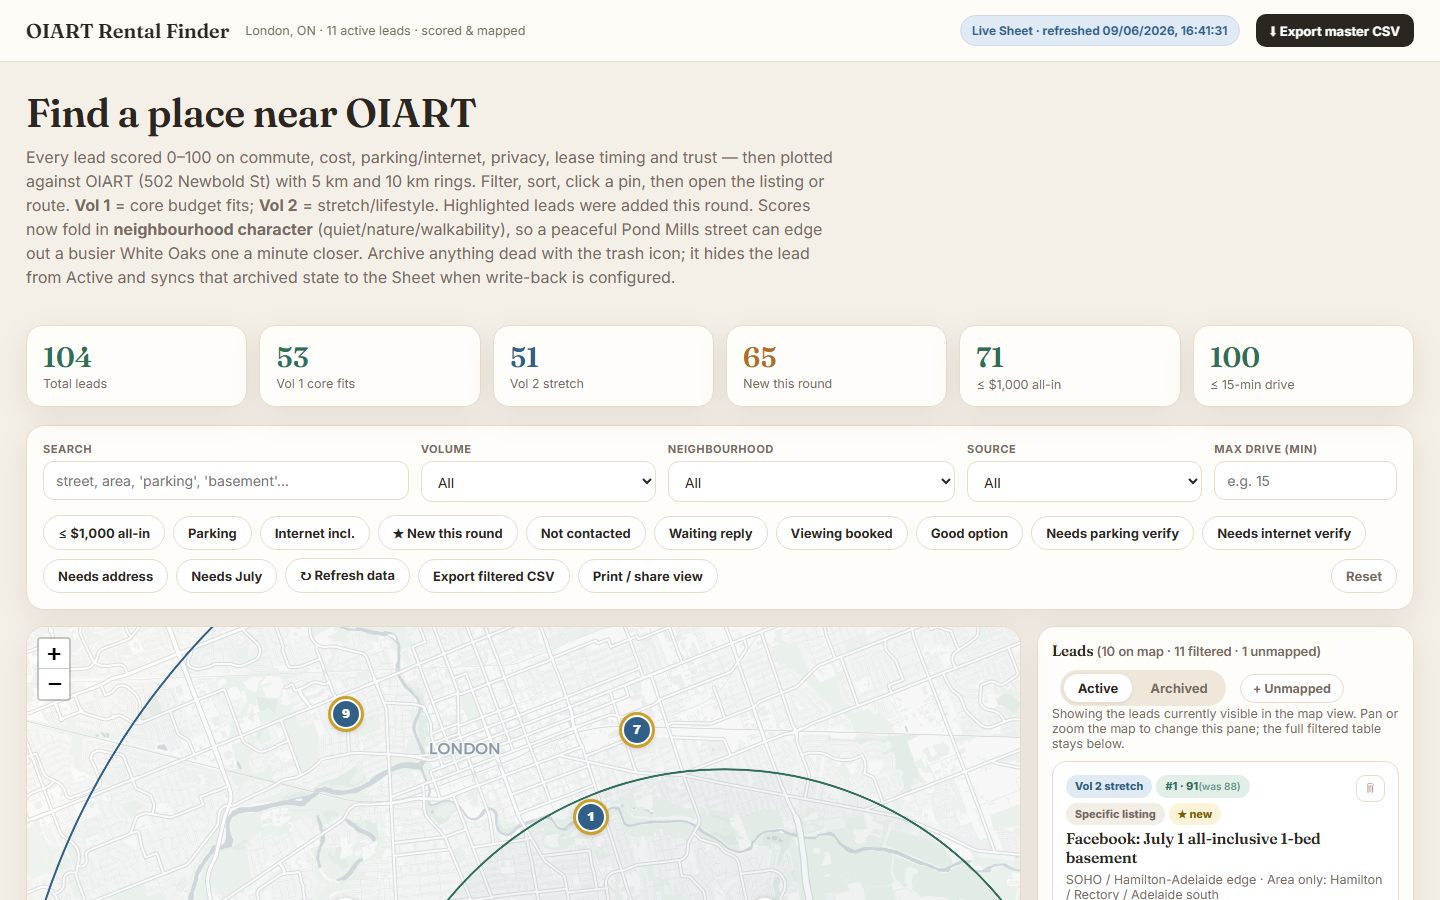
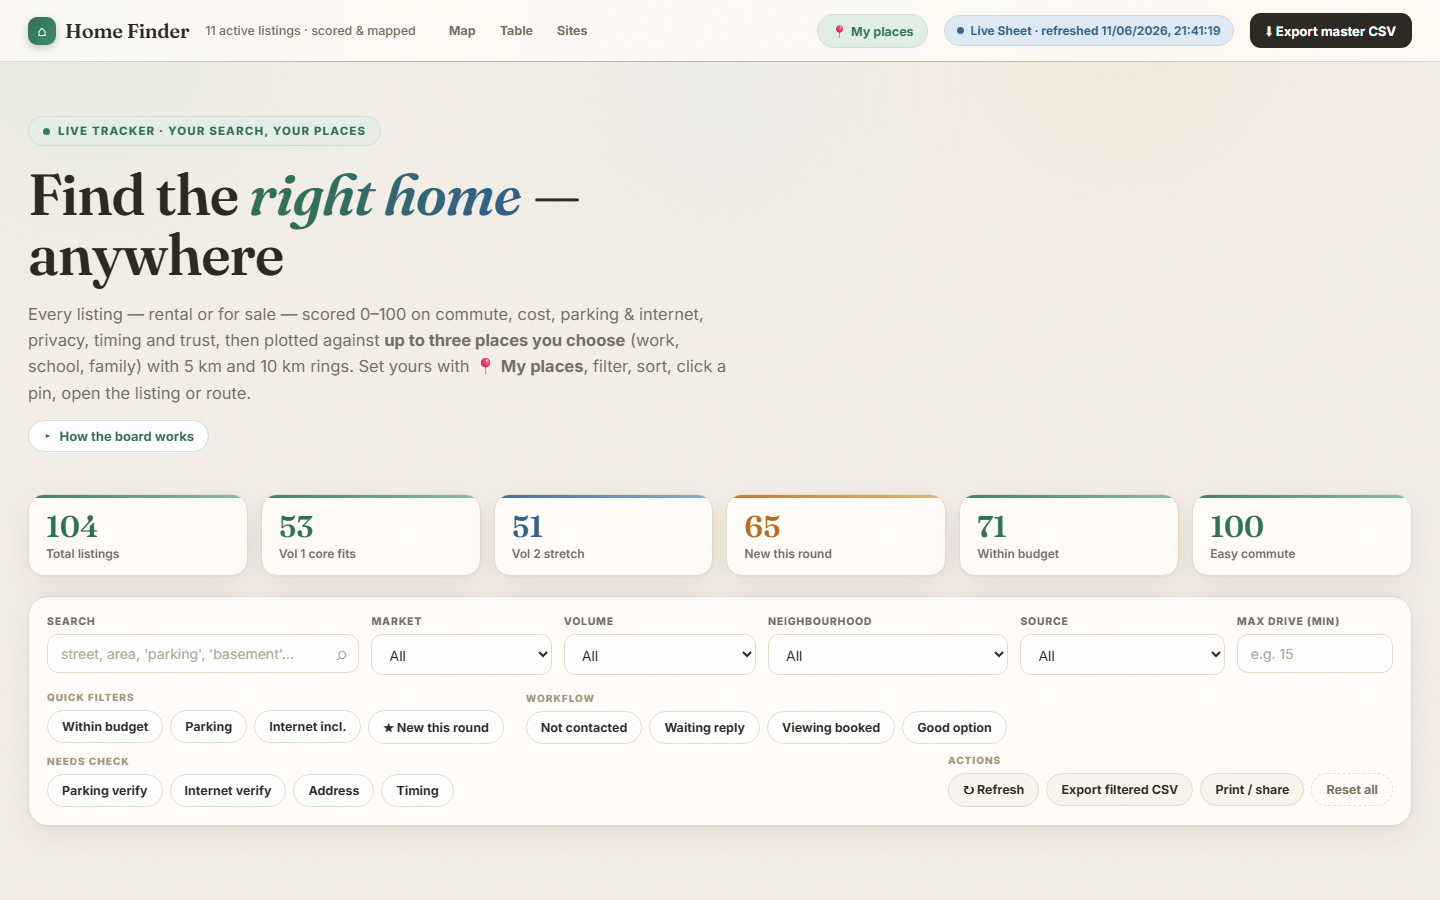
Update rental finder card to generalized Home Finder
New title, copy reflecting rentals + for-sale listings, three anchor
places, and adaptive scoring; fresh live-site screenshot.

diff --git a/index.html b/index.html
@@ -69,7 +69,7 @@
         <div class="container stats-grid">
           <div class="stat reveal"><span class="stat-num" data-value="3">3</span><span class="stat-label">Live web products</span></div>
           <div class="stat reveal"><span class="stat-num" data-prefix="$" data-value="1.2" data-decimals="1" data-suffix="B">$1.2B</span><span class="stat-label">Development pro forma modeled</span></div>
-          <div class="stat reveal"><span class="stat-num" data-prefix="$" data-value="0" data-suffix="/mo">$0/mo</span><span class="stat-label">Infra cost of the Rental Finder</span></div>
+          <div class="stat reveal"><span class="stat-num" data-prefix="$" data-value="0" data-suffix="/mo">$0/mo</span><span class="stat-label">Infra cost of Home Finder</span></div>
           <div class="stat reveal"><span class="stat-num" data-value="1">1</span><span class="stat-label">Emilio Dio Award for Studio Excellence</span></div>
         </div>
       </div>
@@ -132,20 +132,20 @@
           </div>
         </article>
 
-        <!-- OIART Rental Finder -->
+        <!-- Home Finder -->
         <article class="project reveal">
-          <a class="project-media" href="https://azr-erzr.github.io/oiart-rental-finder/" target="_blank" rel="noopener" aria-label="Visit the OIART Rental Finder">
-            <img src="assets/img/rentalfinder-home.png" alt="OIART Rental Finder — scored listing dashboard with filters, stats, and a map" loading="lazy">
+          <a class="project-media" href="https://azr-erzr.github.io/oiart-rental-finder/" target="_blank" rel="noopener" aria-label="Visit Home Finder">
+            <img src="assets/img/rentalfinder-home.png" alt="Home Finder — 'Find the right home, anywhere' dashboard with scored listings, stats, and filters" loading="lazy">
             <span class="media-badge">azr-erzr.github.io</span>
           </a>
           <div class="project-body">
             <div class="project-tags">
               <span class="tag">Zero-infrastructure · Open source</span>
             </div>
-            <h3>OIART Rental Finder</h3>
+            <h3>Home Finder</h3>
             <p class="project-tagline">A full search-and-ranking app that costs $0 to run.</p>
-            <p>A live rental-hunting tool where a Google Sheet is the database, GitHub Pages is the host, and a small Apps Script endpoint handles write-back. Every listing is scored 0–100 by an honesty-first engine: graduated points for what a listing actually states, unknowns excluded from the math instead of fake-penalized, and missing must-haves capping the score so a mystery listing can never look like a 95.</p>
-            <p><strong>Why it's interesting:</strong> it's maximum product from minimum infrastructure — map with drive-time anchors, team workflow tracking, scam flags, CSV fallback — with no server and no hosting bill. I also wrote a public step-by-step guide so anyone can rebuild it for any search: cars, houses, jobs.</p>
+            <p>A live home-hunting tool — rentals and for-sale listings side by side — where a Google Sheet is the database, GitHub Pages is the host, and a small Apps Script endpoint handles write-back. Every listing is scored 0–100 by an honesty-first engine: graduated points for what a listing actually states, unknowns flagged "confirm this" instead of fake-penalized, and missing must-haves capping the score so a mystery listing can never look like a 95.</p>
+            <p><strong>Why it's interesting:</strong> it's maximum product from minimum infrastructure, built to generalize. You pick up to three anchor places — work, school, family — and the map weighs every home against all of them; the rubric adapts when a listing is for sale instead of for rent; shared workflow fields track a team's outreach. No server, no hosting bill. I also wrote a public step-by-step guide so anyone can rebuild it for any search: cars, jobs, anything.</p>
             <ul class="project-stack">
               <li>Vanilla JS</li><li>Google Sheets API</li><li>Apps Script</li><li>Leaflet</li><li>GitHub Pages</li>
             </ul>
